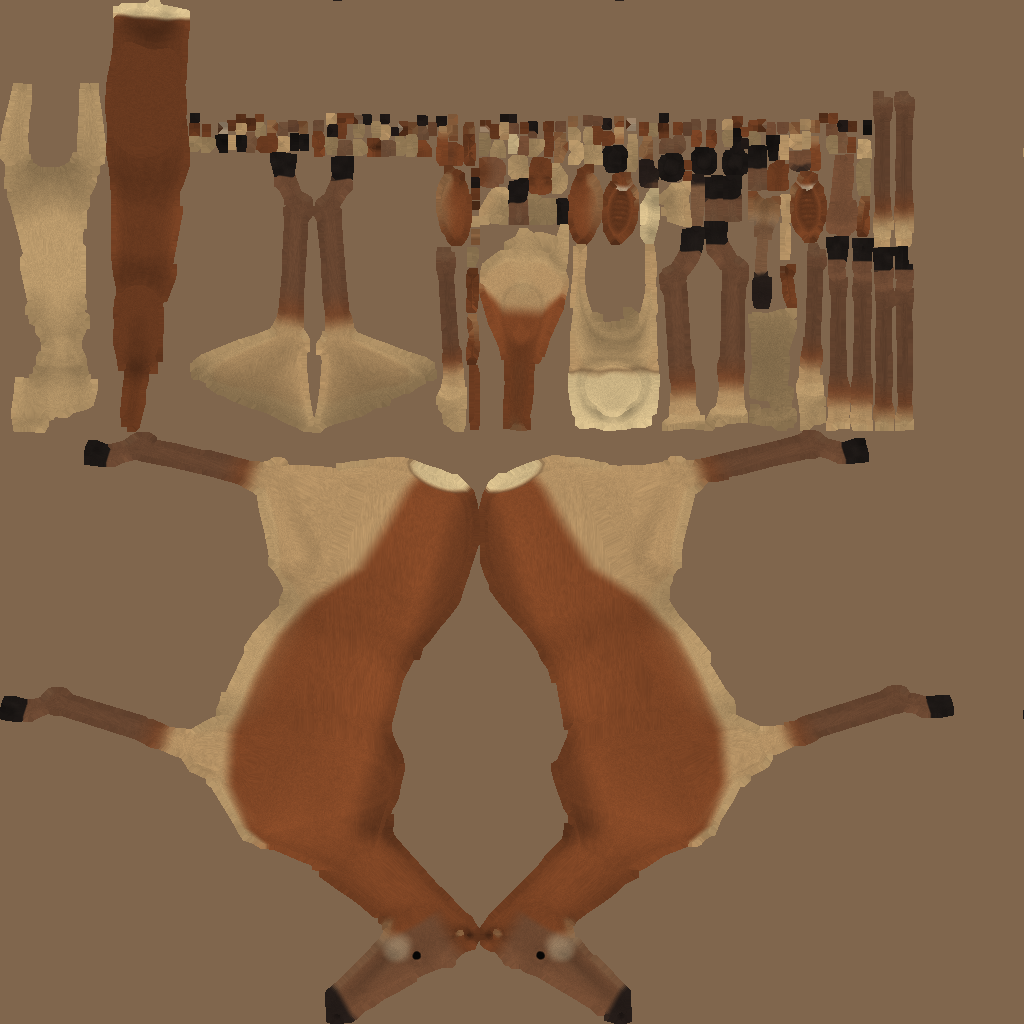
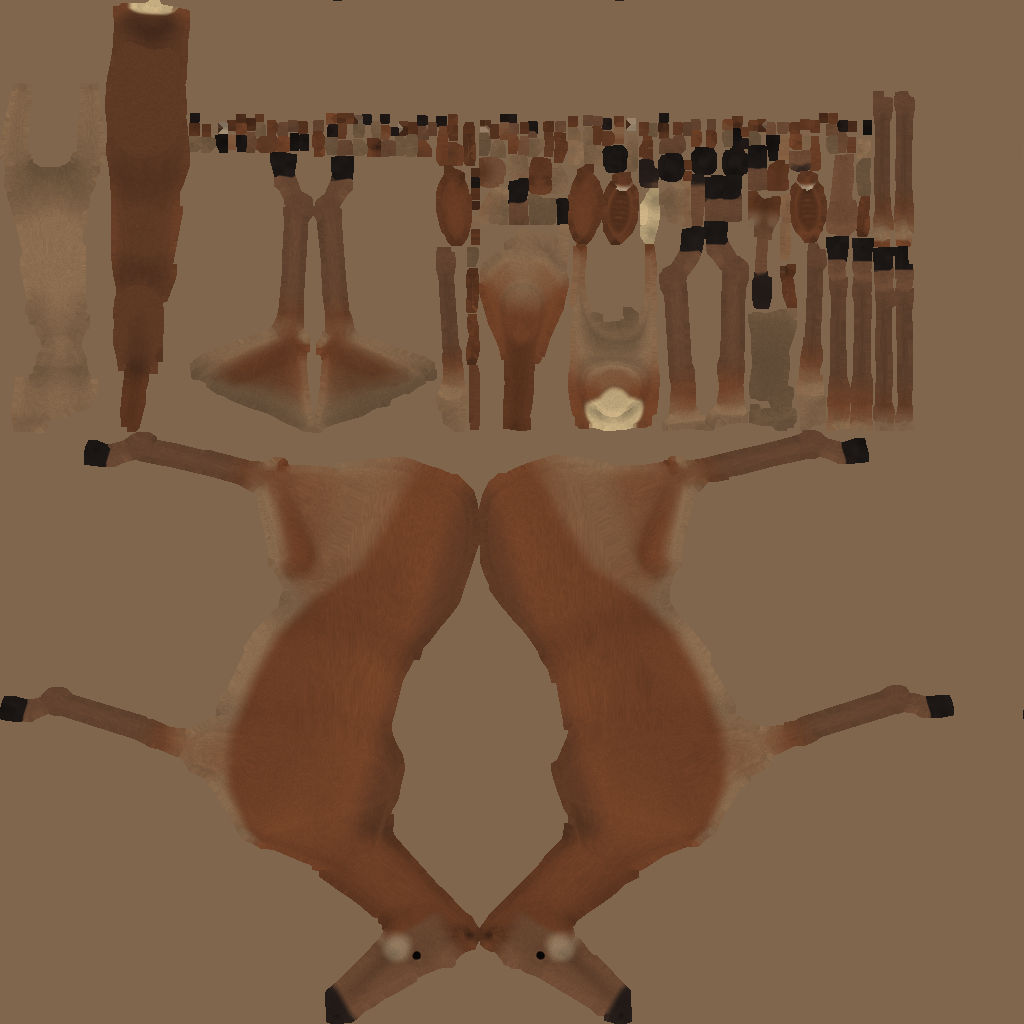
The red deer on WM_Quadruped_v1 grazes the woods' edges in herds: a stag with his rack among hinds, off at a bound when you come near
The rebuilt coat (dull rust, buff under the barrel, a small rump patch), the review sheets, and
PROGRESS. test_deer, test_livestock(_rigged), test_wildlife, test_graphics_settings 39/39;
tools/forge test_quad, test_rig_contract, test_output 64 passed.

Claude-Session: https://claude.ai/code/session_01A6PPphQHEwh4jQrJtEMbFk

diff --git a/PROGRESS.md b/PROGRESS.md
@@ -12898,12 +12898,37 @@ its child, moved and drawn with them, under the same `wildlife` setting.
   ring of herds.
 
 **Looked at** in Godot (Compatibility, ride_studio's new `deer` film: a stag, a hind and a yearling
-beside the cob in the Toll's Lip's yard, standing, walking, at the bound, grazing, alert, and the
-two heads close): they read as red deer -- a stag with a royal's rack, hinds without, the neck
-carried high, the head down in the grass and up to watch. The first build's coat read orange with
-cream half up the flanks; recoloured and rebuilt.
+beside the cob in the Toll's Lip's yard). The first build (`docs/review/tree-forge/
+red_deer_first_coat_poses.jpg`: standing, walking, at the bound, grazing, alert, the two heads)
+read as red deer in shape -- a stag with a royal's rack, hinds without, the neck carried high, the
+head down in the grass and up to watch -- but its coat was orange with cream half up the flanks.
+Recoloured (dull rust going brown on the back, buff only under the barrel, a smaller rump patch)
+and rebuilt; `red_deer_beside_cob.jpg` is the rebuilt coat standing and walking from the side and
+the three-quarter, the cob behind for scale (a stag 1.3 m at the withers against her 1.5).
 
 **Tests**: tools/forge `test_quad` 19 (Run leaves the ground, Hit and Death there and not looping,
-Death lies down and stays), `test_rig_contract`, `test_output` (64 with test_quad). Godot:
-`test_deer` (6), with `test_livestock`, `test_livestock_rigged`, `test_wildlife`,
-`test_graphics_settings`.
+Death lies down and stays), with `test_rig_contract` and `test_output`: 64 passed. Godot
+`test_deer` (6: the model and its clips, antlers hidden for a hind and kept past the body's first
+rung, the far meshes and the stag's marked antlers; herds at Briarwold wood edges on dry ground,
+the same on every visit, none at wildlife 0; hinds with one stag or stags together; heads up at
+62 m and off at a bound at 30 m, 120 m away and grazing again; a runner at 50 m puts them up; near
+deer rigged, the rest two draws), with `test_livestock`, `test_livestock_rigged`, `test_wildlife`,
+`test_graphics_settings`: 39 of 39.
+
+### Not done / for the coordinator
+- **Landing**: `game/assets/models/creatures/deer_red/` is new (GLB, maps, far meshes, sidecars):
+  the import picks it up. `world_streamer.gd` gains two lines (TreeCover's grid and note); no world
+  data changes, no world rebuild needed for the deer (they read the streamed cells at runtime).
+- The `deer_wild` film (the herds at a Briarwold edge, the far meshes at 140 m, the flight) was not
+  captured: on this loaded machine the world film ran out of its 45 min before reaching it. The
+  behaviour is covered by test_deer; a look in the Briarwold on the user's Forward+ is still owed.
+- The rebuilt coat's run, graze and head close-ups were not re-shot (the first coat's are in the
+  review sheet; the shapes are unchanged).
+- The IK falls short in the fast gaits (worst 0.31 m in Run, 0.19 in Trot); the cob's Gallop is
+  0.35, so it is the gait generator's, not the deer's. At 10 m/s it does not read; a fix is in
+  `quad_clips` for every beast.
+- One body for hind and stag: the stag's thicker rutting neck (DeerStyle.ruff) is not built into
+  it; he is the hind's body at 1.08 with the rack.
+- The grey hart's albedo is built (`deer_red_grey_coat_albedo.png`) but nothing in the game swaps
+  it in yet (the Ranger's hart could).
+- The six stray ewe files in main are still waiting on the user's `git rm` (HANDOFF).
